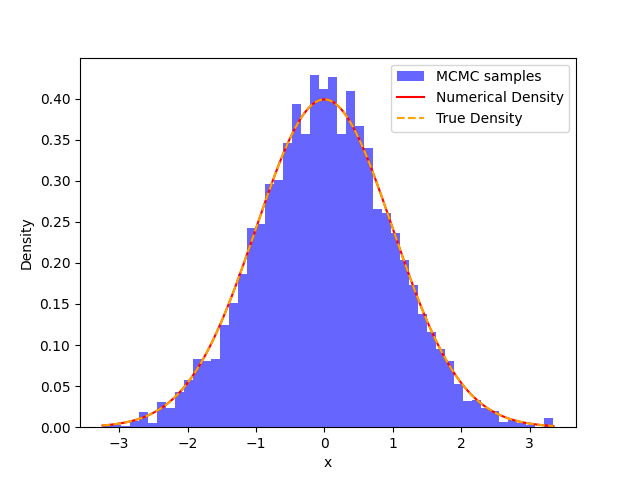
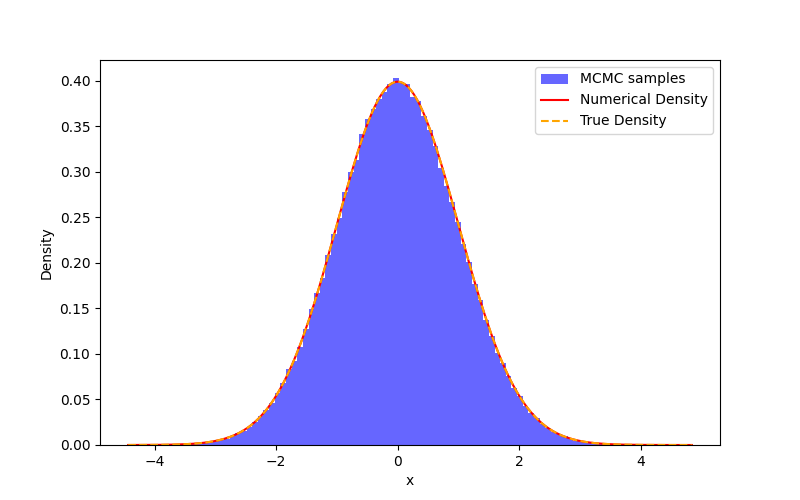
change normal fig size

diff --git a/mcmc_normal.py b/mcmc_normal.py
@@ -54,7 +54,7 @@ print(f"{acceptance_rate=}")
 
 print(f"Last ten states of chain : {chain[-10:]}")
 
-plt.figure()
+plt.figure(figsize=(8, 5))
 hist = plt.hist(chain, bins=100, color="blue", alpha=0.6, density=True, label="MCMC samples")
 
 # To plot the normalized density function, we can calculate the constant numerically.
